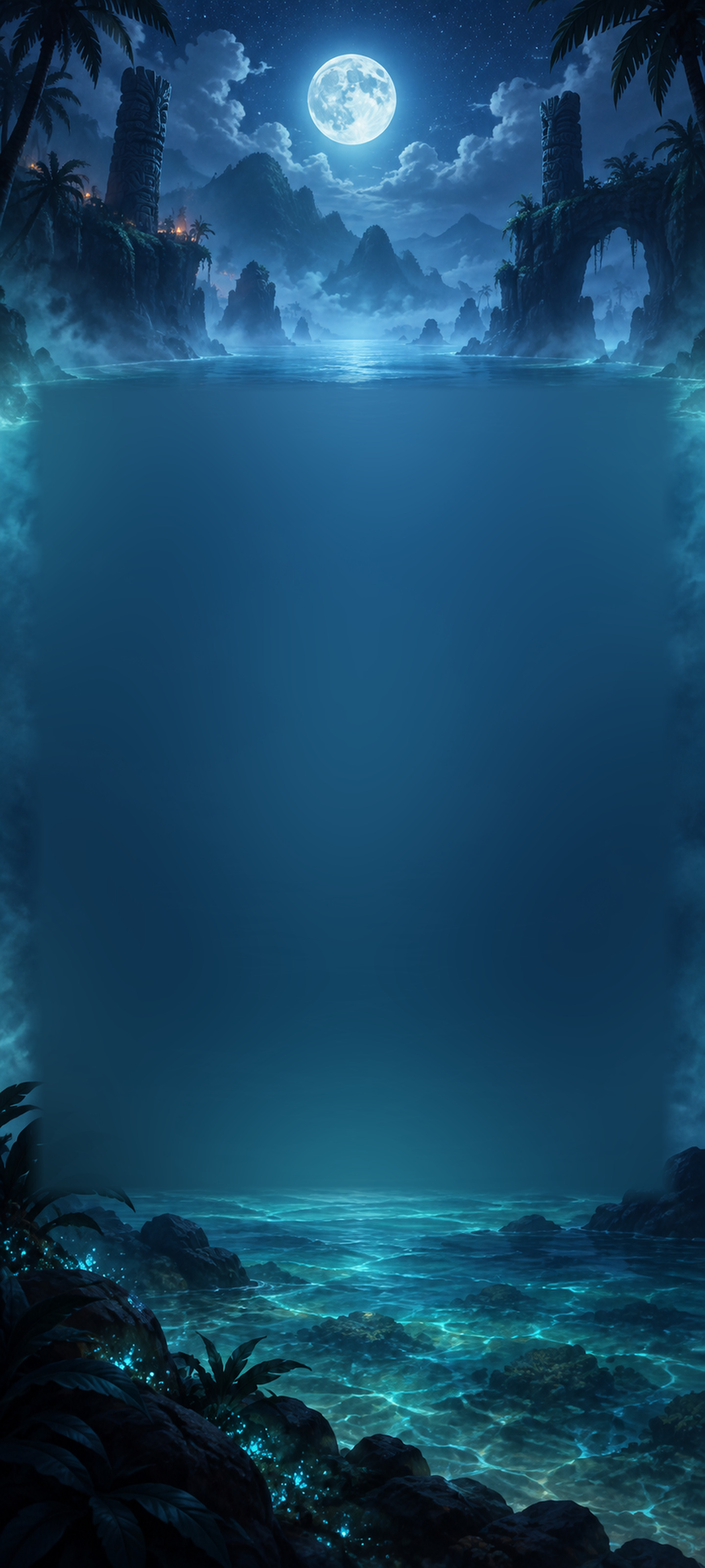
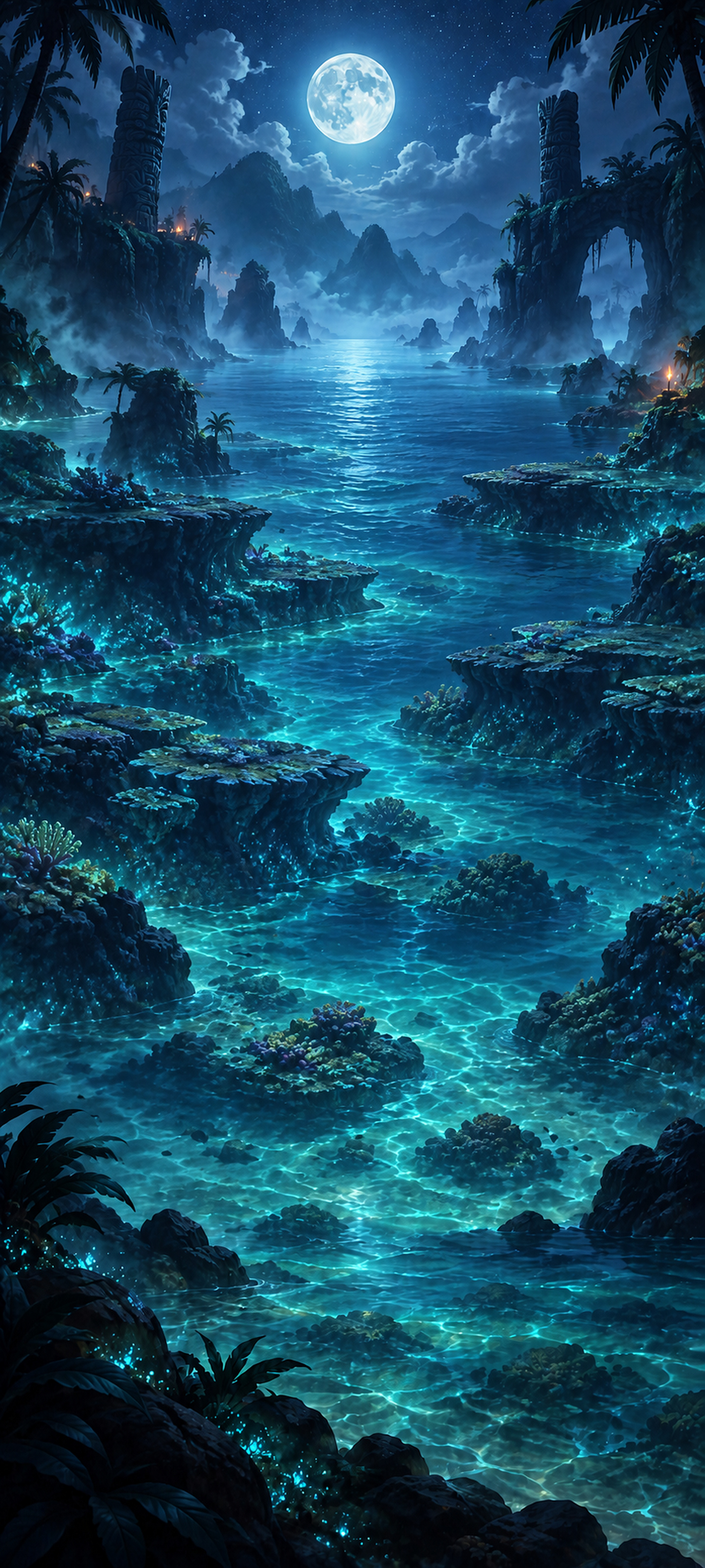
feat(art): the rework's scenes, kit, speech and per-realm nodes
The art round of 2026-10-01 (rework-1) goes in through the skin contract:

- each realm's background is its new full scene, with no flat middle band;
- the card, panel and title plate are the redone pieces, their lit rim
  around the whole rounded edge, and a new divider slot draws the rule
  between a card's rows;
- the guardian's line sits in the new speech pieces, speech-left and
  speech-right, each carrying its whole tail in the fixed upper corner on
  the guardian's side, reaching 15 dp toward its mouth;
- the map nodes move from the UI kit into each realm (map-node-locked,
  -open, -current, -done and -guardian), so every realm draws its own set,
  and the current level shows its own cream-rimmed node.

The kit pieces were drawn at 3 px per dp; they are resampled to the
contract's 2 px per dp with their slice borders. The HUD's level medal reads
the realm's open node. The import inventory test now reads every skin
realm's images from the codegen's output, as it already read the UI slots,
instead of a hand-kept list.

diff --git a/unity/Assets/ZKube/Runtime/Presentation/PageViews.Campaign.cs b/unity/Assets/ZKube/Runtime/Presentation/PageViews.Campaign.cs
@@ -173,12 +173,12 @@ namespace ZKube.Presentation
             return focus;
         }
 
-        // One level. Locked: dark stone with a lock. Open or finished: the
-        // glowstone with its number, a finished one with its three stars under
-        // it. Current: larger, breathing. The guardian: its portrait in the
-        // portal ring with a soft halo, dimmed with a lock until it opens, its
-        // stars always under it. The touch area covers the node and its stars,
-        // at least 48 dp.
+        // One level, in its realm's own node set. Locked: dark stone with a
+        // lock. Open or finished: the glowstone with its number, a finished one
+        // with its three stars under it. Current: larger, its cream rim,
+        // breathing. The guardian: its portrait in the portal ring with a soft
+        // halo, dimmed with a lock until it opens, its stars always under it.
+        // The touch area covers the node and its stars, at least 48 dp.
         private void Node(CampaignPageView value, CampaignTrialView trial, Vector2 center, float normal, bool guardian, bool lit)
         {
             float d = ui.Density;
@@ -204,7 +204,7 @@ namespace ZKube.Presentation
                 var portrait = ui.Medallion(name + " guardian", new Rect(rect.center.x - face / 2, rect.center.y - face / 2, face, face),
                     ui.Art.Sprite("boss__portrait"), hit.transform);
                 Destroy(hit.transform.Find(name + " guardian frame").gameObject);
-                ui.Piece(name + " ring", SkinSlots.MapNodeGuardian, rect, hit.transform);
+                RealmPiece(name + " ring", SkinSlots.MapNodeGuardian, rect, hit.transform);
                 if (!open && !done)
                 {
                     portrait.color = new Color(.45f, .45f, .45f, 1);
@@ -214,7 +214,8 @@ namespace ZKube.Presentation
             }
             else
             {
-                ui.Piece(name + " node", done && !lit ? SkinSlots.MapNodeDone : open ? SkinSlots.MapNodeOpen : SkinSlots.MapNodeLocked, rect, hit.transform);
+                RealmPiece(name + " node", lit ? SkinSlots.MapNodeCurrent : done ? SkinSlots.MapNodeDone : open ? SkinSlots.MapNodeOpen : SkinSlots.MapNodeLocked,
+                    rect, hit.transform);
                 if (open || done)
                     ui.Label(name + " number", Number(value.Realm, trial.Level), rect, size * .37f / d, SkinTokens.Text, hit.transform,
                         SkinUi.Type.Display).textWrappingMode = TextWrappingModes.NoWrap;
@@ -225,6 +226,13 @@ namespace ZKube.Presentation
                     ui.Star(name + " star " + (i + 1), new Rect(stars.x + i * star * 1.05f, stars.y + (i == 1 ? .18f * star : 0), star, star), i < trial.Stars,
                         hit.transform);
             actions.Wire(button, new PageAction { Name = name, Enabled = trial.Available, CanInvoke = trial.CanOpen, Invoke = trial.Open }, fade: false);
+        }
+        // A piece of the page realm's own art (its map nodes), at its own aspect.
+        private Image RealmPiece(string name, string slot, Rect rect, Transform parent)
+        {
+            var image = ui.Rect<Image>(name, rect, parent);
+            image.sprite = ui.Art.SkinRealm(slot); image.preserveAspect = true; image.raycastTarget = false;
+            return image;
         }
         private Image Tinted(string name, string slot, Rect rect, string token, Transform parent)
         {

diff --git a/unity/Assets/ZKube/Runtime/Presentation/ScreenKit.cs b/unity/Assets/ZKube/Runtime/Presentation/ScreenKit.cs
@@ -222,11 +222,8 @@ namespace ZKube.Presentation
             float w = TextWidth(text, sizeDp, SkinUi.Type.Caption), h = Ui.TextHeight(text, w, sizeDp, SkinUi.Type.Caption);
             return new Side(w, h, rect => Ui.Label(name, text, rect, sizeDp, token, Parent, SkinUi.Type.Caption).textWrappingMode = TextWrappingModes.NoWrap);
         }
-        public void Rule(string name, Rect row)
-        {
-            var rule = Ui.Rect<Image>(name, new Rect(row.x, row.yMax - Mathf.Max(1, Ui.Density), row.width, Mathf.Max(1, Ui.Density)), Parent);
-            rule.color = new Color(35 / 255f, 57 / 255f, 74 / 255f, 1); rule.raycastTarget = false;
-        }
+        // The kit's divider along a row's top edge.
+        public void Rule(string name, Rect row) => Ui.Piece(name, SkinSlots.Divider, new Rect(row.x, row.yMax - 2 * Ui.Density, row.width, 4 * Ui.Density), Parent);
 
         // A value (.val3): the 24u display numeral at line height 1.
         public Side Value(string name, string text, string token = SkinTokens.Score, float? sizeDp = null)
@@ -333,6 +330,7 @@ namespace ZKube.Presentation
                 if (line != null) Bubble(line, canvas, c, cardRect.yMax);
             });
         }
+        public const float TailDp = 15;
         // The guardian's line (.bub): 122u wide, 0.8c from the canvas's left and
         // 0.06c down, padded 8u by 10u, 12.5u at 1.25, its tail toward the head.
         // A long line widens into the room rather than reach the card.
@@ -348,10 +346,11 @@ namespace ZKube.Presentation
             float x = right ? guardian.x + .8f * c : guardian.xMax - .8f * c - w;
             float top = Mathf.Max(guardian.yMax - .06f * c, cardTop + 6 * u + height);
             var body = new Rect(x, top - height, w, height);
-            Ui.Piece("Guardian bubble", SkinSlots.TapBubble, body, Parent, .5f);
-            var tail = Ui.Piece("Guardian bubble tail", SkinSlots.TapBubbleTail,
-                new Rect(right ? body.x - 9 * u : body.xMax, top - 18 * u - 9 * u, 9 * u, 18 * u), Parent);
-            if (right) { tail.rectTransform.localScale = new Vector3(-1, 1, 1); tail.rectTransform.anchoredPosition += new Vector2(9 * u, 0); }
+            // The speech piece carries its tail in its upper corner on the
+            // guardian's side, reaching TailDp past the body toward its mouth.
+            float tail = TailDp * Ui.Density;
+            Ui.Piece("Guardian bubble", right ? SkinSlots.SpeechLeft : SkinSlots.SpeechRight,
+                new Rect(right ? body.x - tail : body.x, body.y, w + tail, height), Parent);
             Text("Guardian line", line, new Rect(body.x + 10 * u, body.y + 8 * u, w - 20 * u, height - 16 * u), textDp, SkinTokens.TextOnPrimary, SkinUi.Type.Caption,
                 BubbleLeading, TextAlignmentOptions.TopLeft);
         }

diff --git a/crates/zkube-codegen/src/skins.rs b/crates/zkube-codegen/src/skins.rs
@@ -8,7 +8,7 @@ use serde::Deserialize;
 use serde_json::{Map, Value, json};
 
 /// UI pieces drawn stretched; each declares its stretch border in skin.json.
-pub const UI_STRETCH_SLOTS: [&str; 31] = [
+pub const UI_STRETCH_SLOTS: [&str; 34] = [
     "panel",
     "plate",
     "dialog",
@@ -41,20 +41,21 @@ pub const UI_STRETCH_SLOTS: [&str; 31] = [
     "earn-panel",
     "tap-bubble",
     "chip",
-    // A page's card and its title plate.
+    // A page's card, its title plate and the rule between a card's rows.
     "card",
     "title-plate",
+    "divider",
+    // A guardian's speech, its tail in the fixed upper corner on the side it
+    // speaks from.
+    "speech-left",
+    "speech-right",
 ];
 
 /// UI pieces drawn at their own aspect ratio.
-pub const UI_FIXED_SLOTS: [&str; 75] = [
+pub const UI_FIXED_SLOTS: [&str; 71] = [
     "grid-cell",
     "guardian-frame",
     "badge",
-    "map-node-locked",
-    "map-node-open",
-    "map-node-done",
-    "map-node-guardian",
     "star-on",
     "star-off",
     "star-big",
@@ -200,10 +201,21 @@ pub const REALM_PAINTINGS: [&str; 3] = ["background", "hud-background", "map"];
 /// Realm pieces drawn stretched; their borders are skin-wide in skin.json.
 pub const REALM_STRETCH_SLOTS: [&str; 1] = ["ledge"];
 
+/// Each realm's own map nodes, drawn at their own aspect ratio: a level locked,
+/// open, current and done, and the guardian's ring around its portrait.
+pub const REALM_NODE_SLOTS: [&str; 5] = [
+    "map-node-locked",
+    "map-node-open",
+    "map-node-current",
+    "map-node-done",
+    "map-node-guardian",
+];
+
 pub fn realm_slots() -> Vec<String> {
     let mut slots: Vec<String> = ["background", "hud-background", "map", "mote"]
         .into_iter()
         .chain(REALM_STRETCH_SLOTS)
+        .chain(REALM_NODE_SLOTS)
         .map(str::to_owned)
         .collect();
     slots.extend((1..=BLOCK_WIDTHS).map(|width| format!("block-{width}")));

diff --git a/unity/tools/tests/test_portrait_import.py b/unity/tools/tests/test_portrait_import.py
@@ -18,6 +18,12 @@ def skin_slots():
     return {entry['slot'] for skin in catalog['skins'] for entry in skin['ui']}
 
 
+def realm_images():
+    """Every skin realm's images as the codegen emits them, by the same owner."""
+    catalog = json.loads((ROOT / 'assets/theme-catalog.generated.json').read_text())
+    return {image.removeprefix('/') for skin in catalog['skins'] for realm in skin['realms'] for image in realm['images'].values()}
+
+
 class PortraitImports(unittest.TestCase):
     def test_imports_only_the_assets_loaded_by_the_game(self):
         _, catalog = imports.asset_plan()
@@ -30,11 +36,9 @@ class PortraitImports(unittest.TestCase):
                             ['background'] + [f'boss/{frame}' for frame in
                              ('idle', 'blink', 'talk-mid', 'talk-open', 'greeting', 'satisfied', 'surprised',
                               'celebrate', 'defeated', 'portrait', 'paws')])
-            expected.update(f'assets/skins/{skin}/realm-{realm}/{name}' for skin in skins for name in
-                            ('background.jpg', 'hud-background.jpg', 'map.jpg', 'ledge.png', 'mote.png',
-                             'block-1.png', 'block-2.png', 'block-3.png', 'block-4.png'))
             expected.add(f'assets/theme-{realm}/sounds/musics/level.mp3')
         expected.update(f'assets/skins/{skin}/ui/{name}.png' for skin in skins for name in skin_slots())
+        expected.update(realm_images())
         self.assertEqual({entry['source'] for entry in catalog['assets']}, expected)
         frames = [entry for entry in catalog['assets'] if '/boss/' in entry['source'] and entry['scope'] != 'portraits']
         self.assertTrue(frames and all(entry['maxTextureSize'] == imports.GUARDIAN_TEXTURE for entry in frames),

diff --git a/unity/Assets/ZKube/Runtime/Presentation/BoardView.cs b/unity/Assets/ZKube/Runtime/Presentation/BoardView.cs
@@ -162,7 +162,8 @@ namespace ZKube.Presentation
                 byte level = HudLayout.CampaignLevel(session);
                 if (hud.Medal.width > 0 && level > 0)
                 {
-                    ui.Piece("Level medal", SkinSlots.MapNodeOpen, hud.Medal, root);
+                    var medal = ui.Rect<Image>("Level medal", hud.Medal, root);
+                    medal.sprite = art.SkinRealm(SkinSlots.MapNodeOpen); medal.preserveAspect = true; medal.raycastTarget = false;
                     Text("Level", HudLayout.LevelNumber(session.RealmId, level), hud.Medal, hud.LevelPt, SkinTokens.Text, root,
                         SkinUi.Type.Display, TextAlignmentOptions.Center);
                 }
